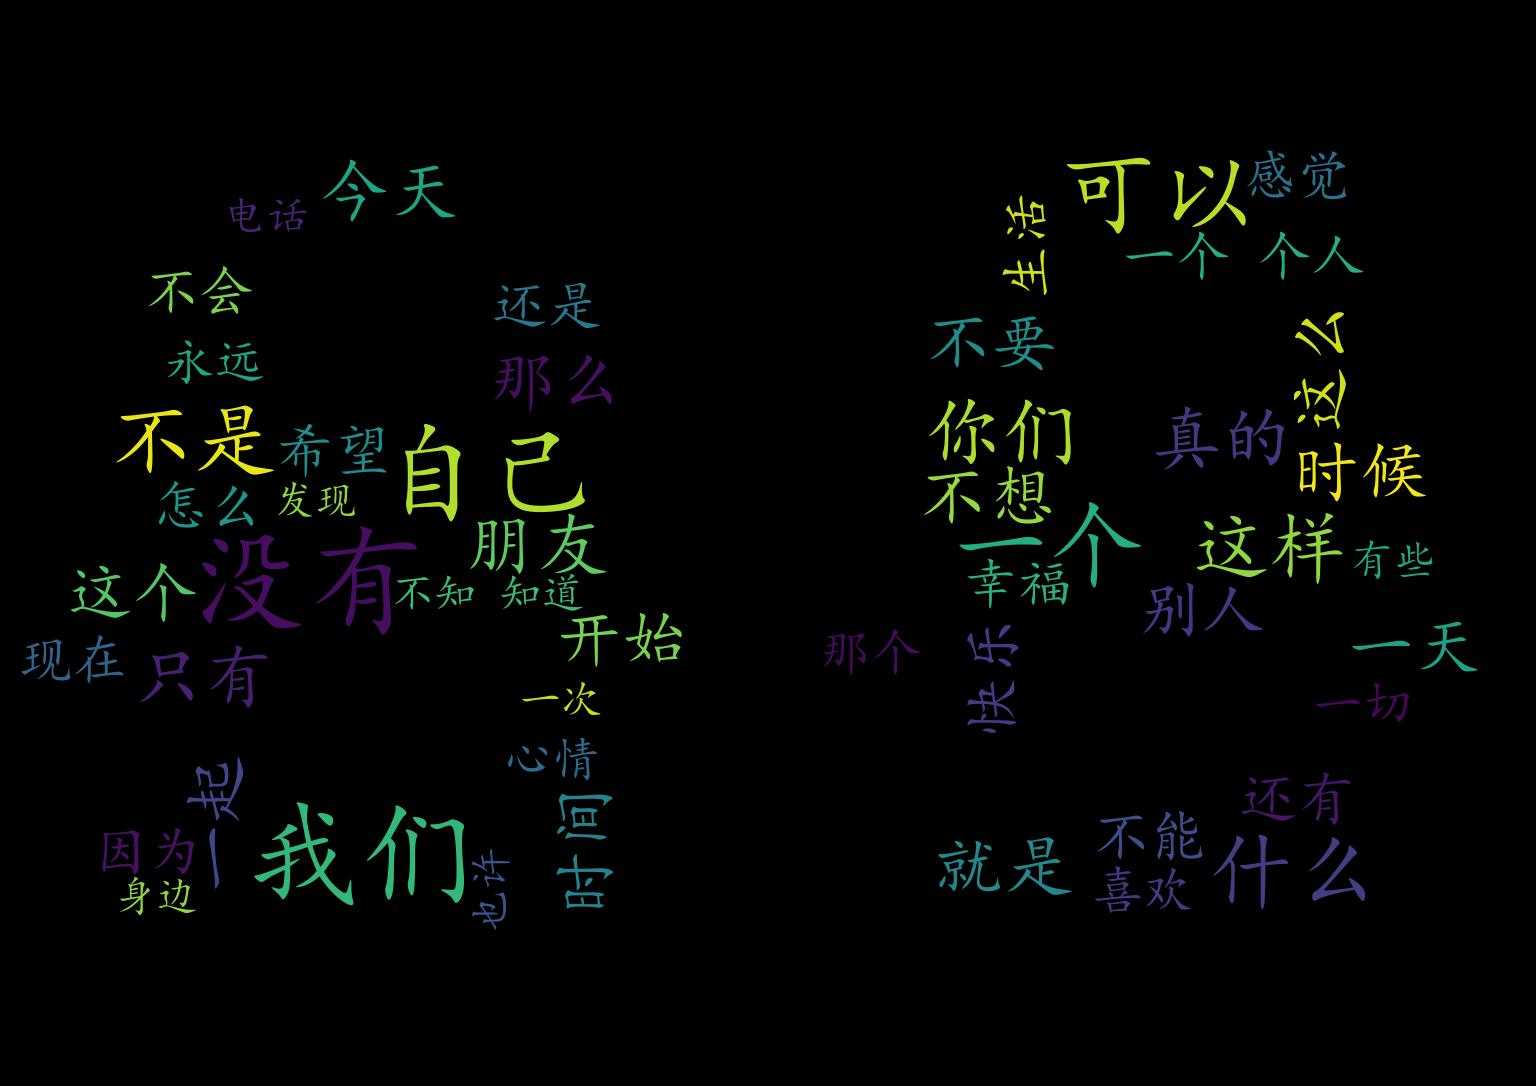
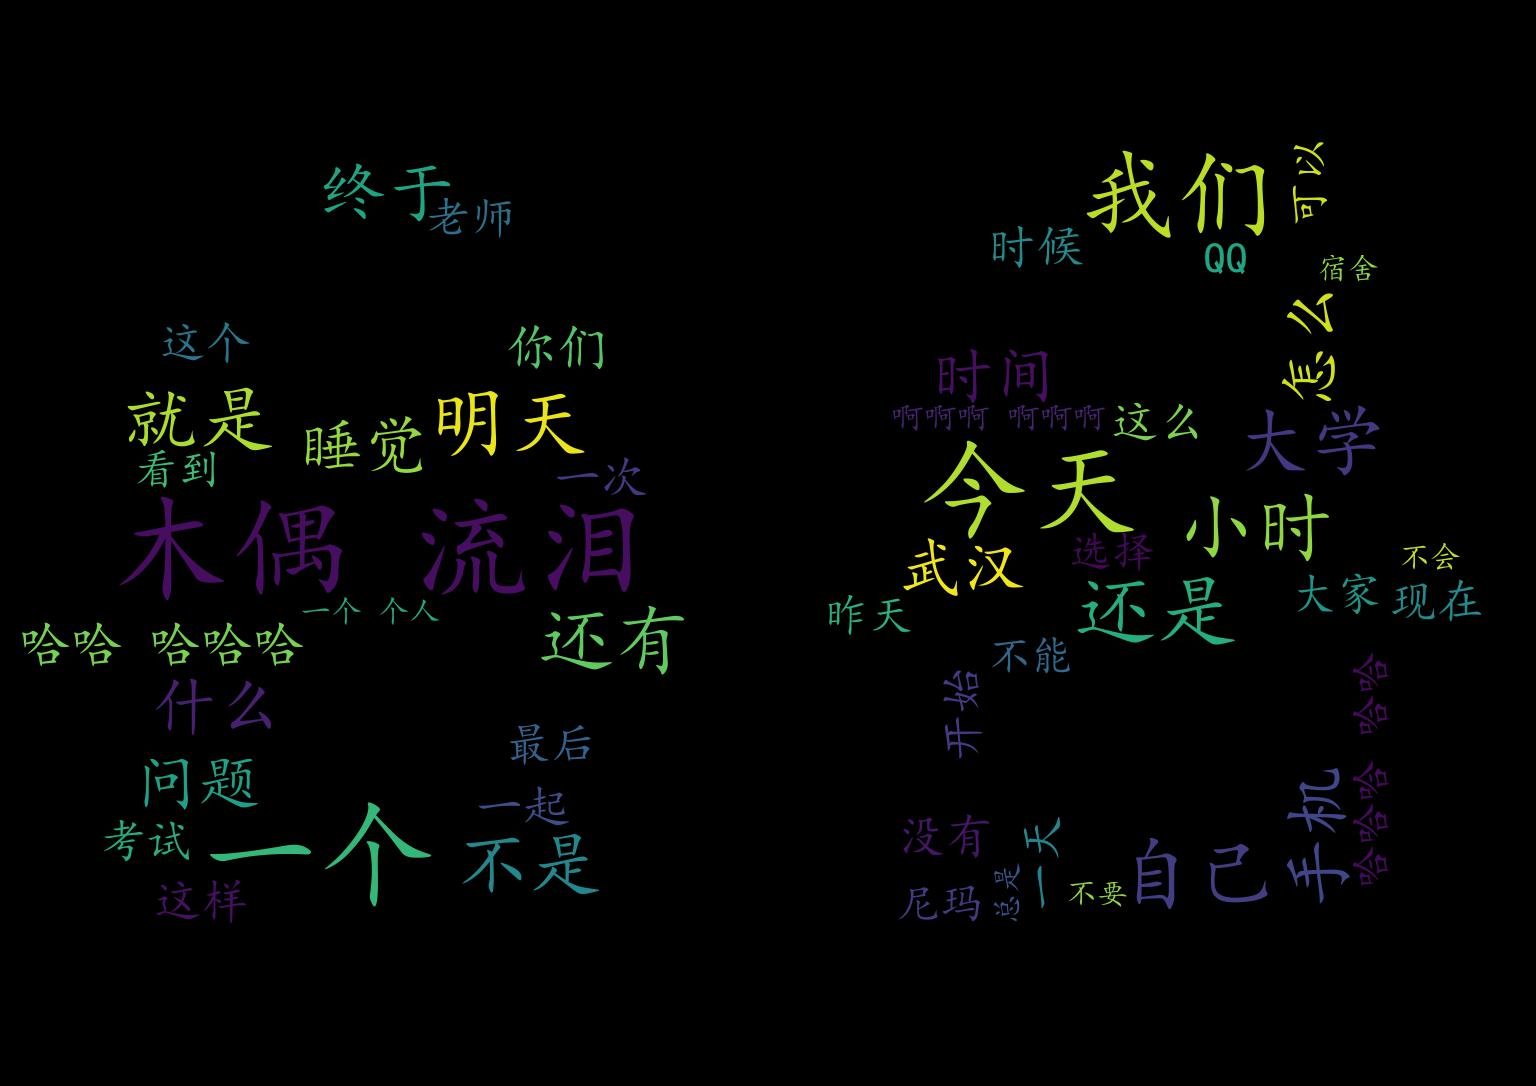
修改生成高频词汇代码

diff --git a/testpython/qq_mood-master/wordcloud/qq_mood.py b/testpython/qq_mood-master/wordcloud/qq_mood.py
@@ -4,41 +4,72 @@ from wordcloud import WordCloud,ImageColorGenerator,STOPWORDS
 import jieba
 import numpy as np
 from PIL import Image
+import re
+import MySQLdb
+import traceback
 import sys
+import warnings
+warnings.filterwarnings("ignore") #忽略警告输出
 reload(sys)
 sys.setdefaultencoding("utf-8")
 
-#读入背景图片
-abel_mask = np.array(Image.open("qq.jpg"))
 
-#读取要生成词云的文件
-text_from_file_with_apath = open('../qq/log.txt').read()
+class WordGenerater:
+    db_conn = None
+    db_cursor = None
 
-#通过jieba分词进行分词并通过空格分隔
-wordlist_after_jieba = jieba.cut(text_from_file_with_apath, cut_all = True)
-stopwords = {'转载','内容','em','评语','uin','nick'}
-seg_list = [i for i in wordlist_after_jieba if i not in stopwords]
-wl_space_split = " ".join(seg_list)
-#my_wordcloud = WordCloud().generate(wl_space_split) 默认构造函数
-my_wordcloud = WordCloud(
-            background_color='black',    # 设置背景颜色
-            mask = abel_mask,        # 设置背景图片
-            max_words = 50,            # 设置最大现实的字数
-            stopwords = STOPWORDS,        # 设置停用词
-            font_path = 'C:/Windows/Fonts/simkai.ttf',# 设置字体格式，如不设置显示不了中文
-            max_font_size = 80,            # 设置字体最大值
-            random_state = 40,            # 设置有多少种随机生成状态，即有多少种配色方案
-                scale=1.5,
-            relative_scaling=0.6
-                ).generate(wl_space_split)
+    def __init__(self):
+        self.__connectMySql()
 
-# 根据图片生成词云颜色
-#image_colors = ImageColorGenerator(abel_mask)
-#my_wordcloud.recolor(color_func=image_colors)
+    #连接数据库
+    def __connectMySql(self):
+        self.db_conn = MySQLdb.connect(host='localhost', user='root', passwd='123456', port=3306, charset="utf8", use_unicode=True)
+        self.db_cursor = self.db_conn.cursor()
+        self.db_conn.select_db('qq_mood')
 
-# 以下代码显示图片
-plt.imshow(my_wordcloud)
-plt.axis("off")
-# plt.show()
+    # 关闭数据库连接
+    def closeDbConnect(self):
+        self.db_cursor.close()
+        self.db_conn.close()
 
-my_wordcloud.to_file("cloud.jpg")
+    def __getContentByQQ(self, qq):
+        emoji_pattern = re.compile(r'\[em\](.*)\[\\/em\]')
+        content = ''
+        try:
+            query_sql = "SELECT content from mood WHERE qq=%s" % (qq)
+            self.db_cursor.execute(query_sql)
+            # 获取所有记录列表
+            results = self.db_cursor.fetchall()
+            for row in results:
+                content = content + re.sub(emoji_pattern, '', row[0])
+        except:
+            print 'traceback.format_exc():\n%s' % traceback.format_exc()
+        return content
+
+    def genereteWordImg(self, qq):
+        #读入背景图片
+        abel_mask = np.array(Image.open("qq.jpg"))
+
+        #通过jieba分词进行分词并通过空格分隔
+        wordlist_after_jieba = jieba.cut(self.__getContentByQQ(qq), cut_all = True)
+        stopwords = {u'转载', u'内容', 'em', u'评语', 'uin', 'nick'}
+        seg_list = [i for i in wordlist_after_jieba if i not in stopwords]
+        wl_space_split = " ".join(seg_list)
+        #my_wordcloud = WordCloud().generate(wl_space_split) 默认构造函数
+        my_wordcloud = WordCloud(
+                    background_color='black', # 设置背景颜色
+                    mask = abel_mask,        # 设置背景图片
+                    max_words = 50,            # 设置最大现实的字数
+                    stopwords = STOPWORDS,        # 设置停用词
+                    font_path = 'C:/Windows/Fonts/simkai.ttf',# 设置字体格式，如不设置显示不了中文
+                    max_font_size = 80,            # 设置字体最大值
+                    random_state = 40,            # 设置有多少种随机生成状态，即有多少种配色方案
+                    scale=1.5,
+                    relative_scaling=0.6
+                    ).generate(wl_space_split)
+
+        my_wordcloud.to_file("cloud.jpg")
+
+wordGenerater = WordGenerater()
+wordGenerater.genereteWordImg('807989524')
+wordGenerater.closeDbConnect()
